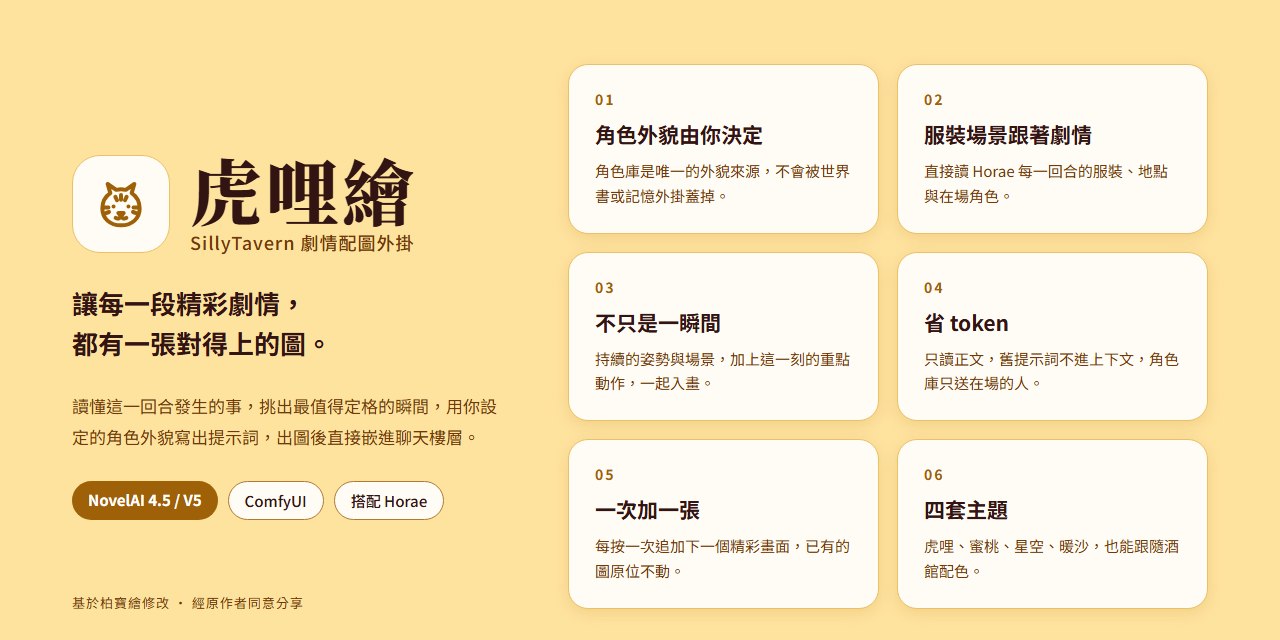
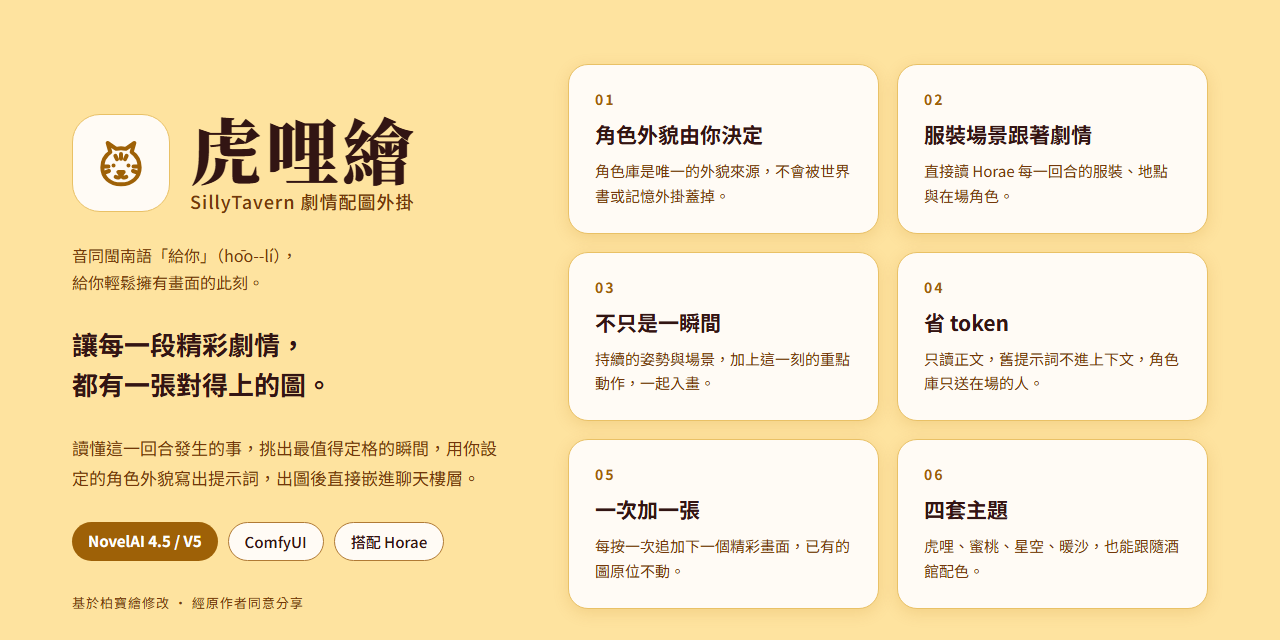
README 與橫幅加上名稱由來：音同閩南語「給你」

Changed region(s): [[0.0312, 0.1562, 0.4062, 0.875]]

diff --git a/README.md b/README.md
@@ -2,6 +2,8 @@
 
 # 虎哩繪 · SillyTavern 劇情配圖外掛
 
+> **虎哩繪，音同閩南語「給你」（hōo--lí），給你輕鬆擁有畫面的此刻。**
+>
 > 讓 AI 寫出的每一段精彩劇情，都有一張對得上的圖。
 > 虎哩繪會讀懂這一回合發生了什麼，挑出最值得定格的瞬間，用你設定好的角色外貌寫出生圖提示詞，交給 NovelAI 或 ComfyUI 出圖，直接嵌進聊天樓層裡。
 
